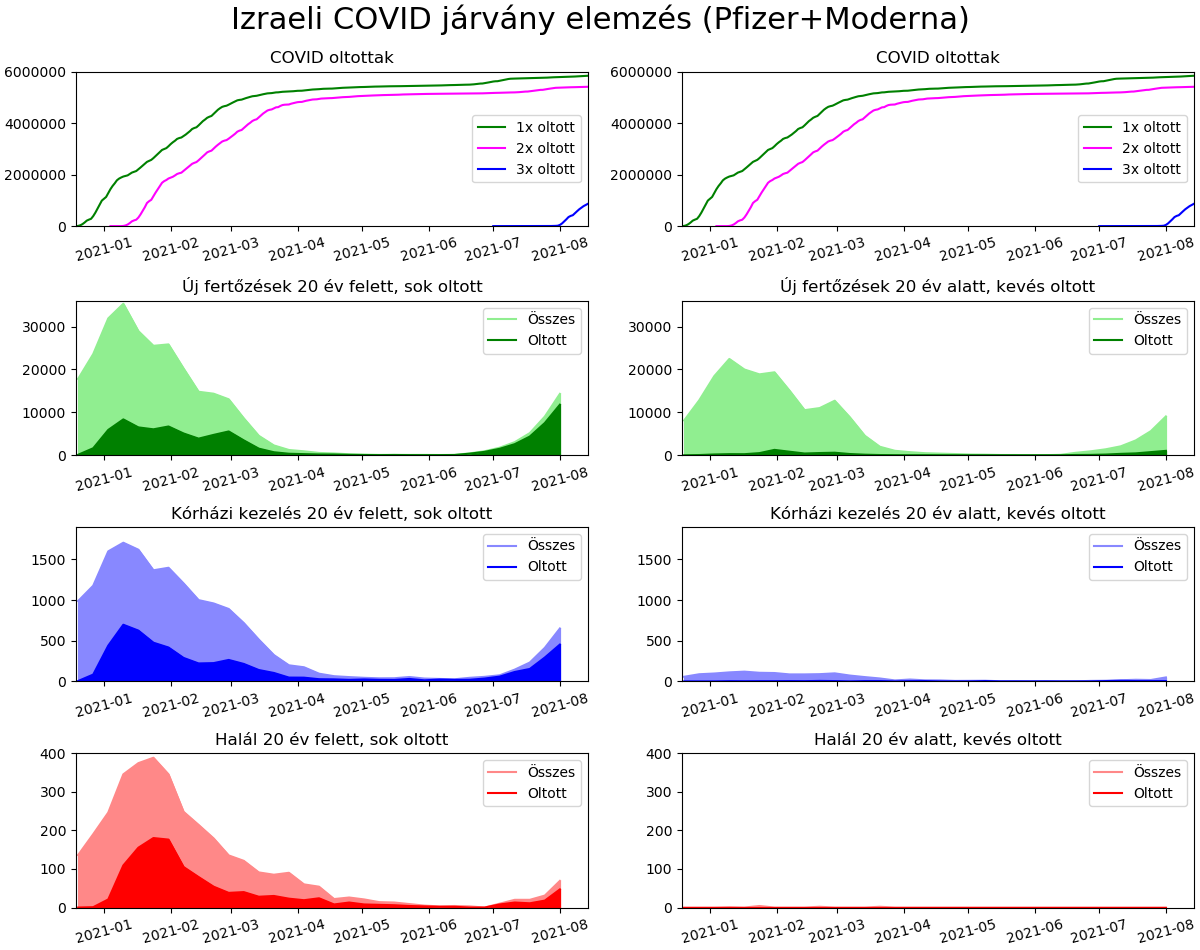
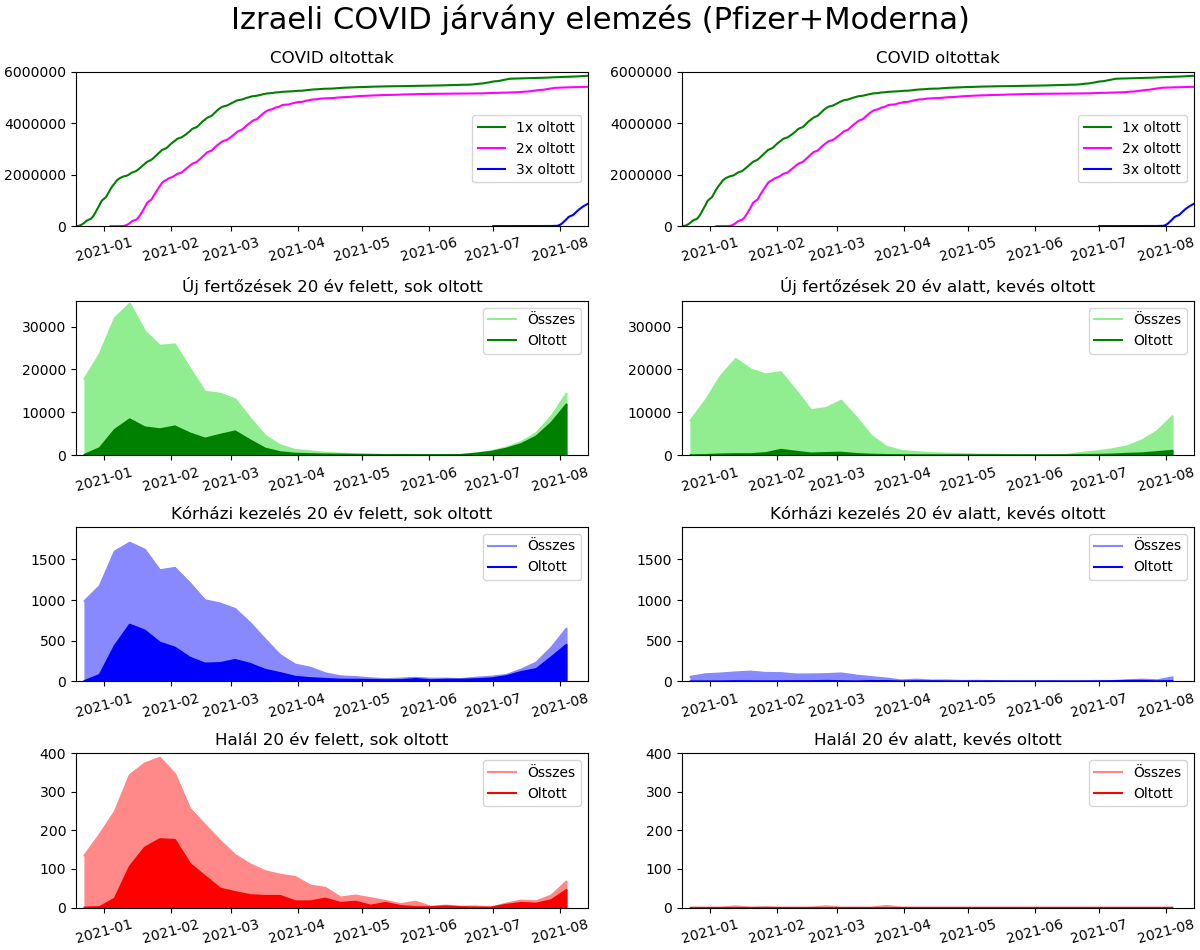
Izraeli adatok

diff --git a/izrael/kép_izrael.py b/izrael/kép_izrael.py
@@ -49,7 +49,7 @@ dfuj['Oltott'] = dfuj['positive_1_6_days_after_1st_dose'] + dfuj['positive_7_13_
 
 dfuj = dfuj.rename(columns = {'Sum_positive_without_vaccination': 'Oltatlan', 'Age_group': 'Korcsoport' }, inplace = False)
 dfuj['Dátum'] = dfuj.apply(lambda row: row['Week'][0:10], axis=1)
-dfuj['Dátum'] = pd.to_datetime(dfuj['Dátum'], format='%Y-%m-%d')
+dfuj['Dátum'] = pd.to_datetime(dfuj['Dátum'], format='%Y-%m-%d') + pd.Timedelta("3 days") # csütörtök hétfő helyett (hét közepe)
 dfuj = dfuj[['Dátum', 'Korcsoport', 'Oltatlan', 'Oltott']]
 
 dfuj20alatt = dfuj.copy()
@@ -84,7 +84,7 @@ dfevnt['Oltott'] = dfevnt['event_after_1st_dose'] + dfevnt['event_after_2nd_dose
 dfevnt = dfevnt.rename(columns = {'event_for_not_vaccinated': 'Oltatlan', 'Age_group': 'Korcsoport' }, inplace = False)
 
 dfevnt['Dátum'] = dfevnt.apply(lambda row: row['Week'][0:10], axis=1)
-dfevnt['Dátum'] = pd.to_datetime(dfevnt['Dátum'], format='%Y-%m-%d')
+dfevnt['Dátum'] = pd.to_datetime(dfevnt['Dátum'], format='%Y-%m-%d') + pd.Timedelta("3 days") # csütörtök hétfő helyett (hét közepe)
 
 dfevnt['Összes'] = dfevnt['Oltatlan'] + dfevnt['Oltott']
 
